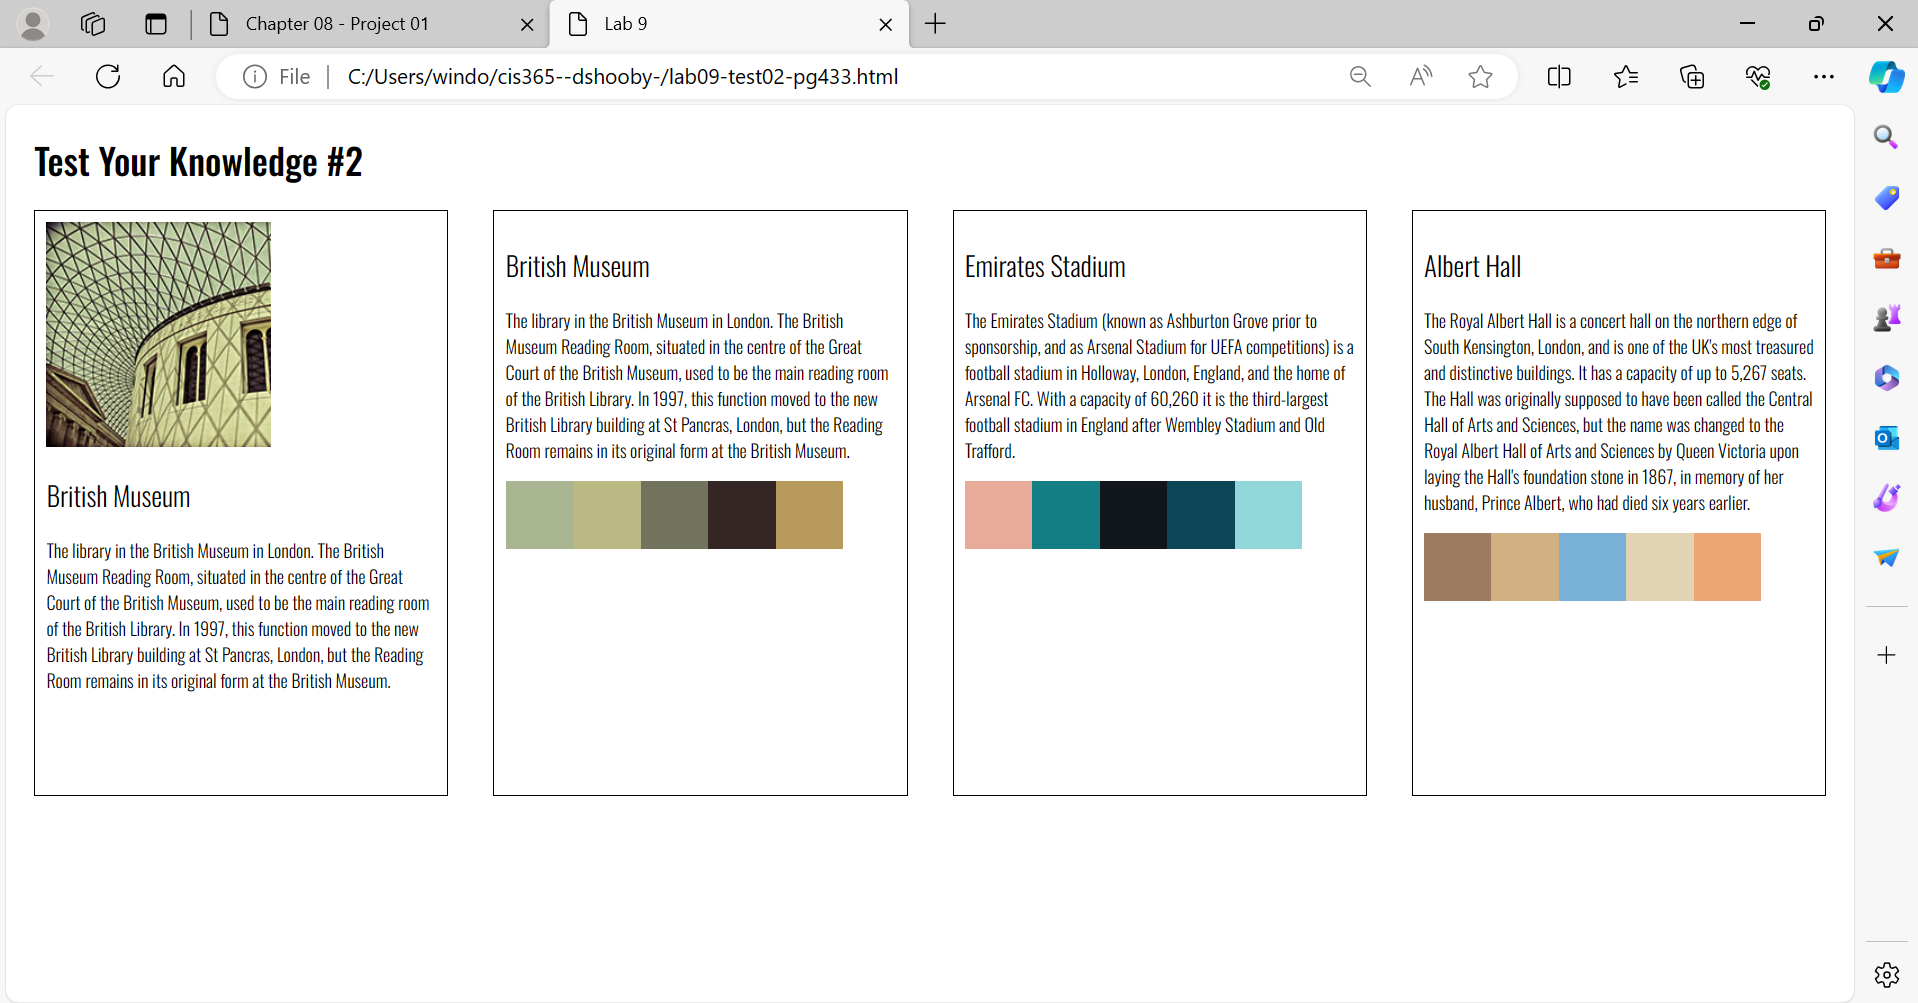
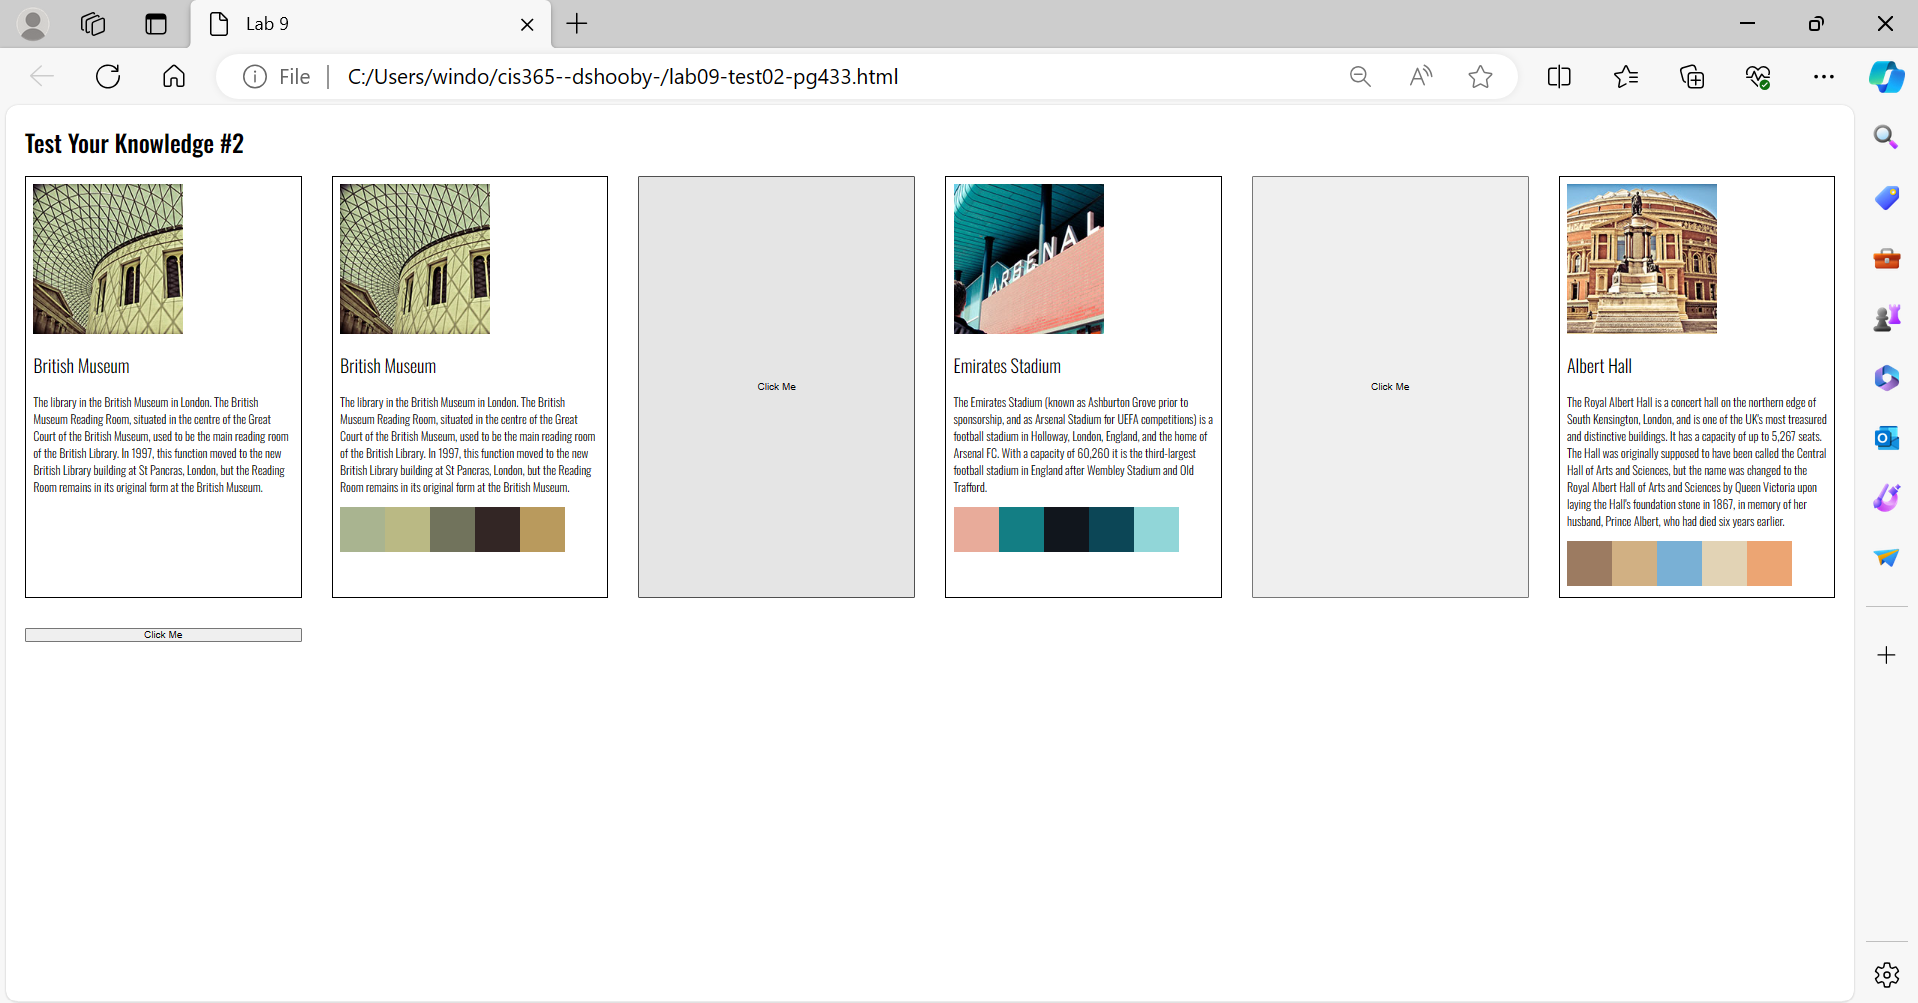
classwork 3.12

Changed region(s): [[0.0, 0.1236, 0.9536, 0.7109], [0.0923, 0.0, 0.4922, 0.0618]]

diff --git a/lab09-test02.js b/lab09-test02.js
@@ -6,10 +6,13 @@ const parent = document.querySelector('#parent');
 for (let ph of photos) {
    let figure = document.createElement('figure');
 
-   //figure.appendChild( createImage(ph) );
+   figure.appendChild( createImage(ph) );
    figure.appendChild( createCaption(ph) );
 
    parent.appendChild(figure);
+
+   parent.appendChild(createButton());
+   console.log("created button");
 }
 
 //create image and set its attributes.
@@ -61,16 +64,16 @@ function createButton(){
 }
 
 document.addEventListener('DOMContentLoaded', function() {
+
    const btn = document.getElementsByTagName("button");
-   console.log(btn);
    btn[0].addEventListener("click", function () {
    console.log("used an anonymous function");
    });
-})
 
-document.querySelector("button").addEventListener("click", function (e)
-{
-   console.log(e.target.textContent);
-   console.log(e);
-   console.log("a different approach but same result")
-})
+   document.querySelector("button").addEventListener("click", function (e)
+      {
+         console.log(e.target.textContent);
+         console.log(e);
+         console.log("a different approach but same result")
+      });
+});
